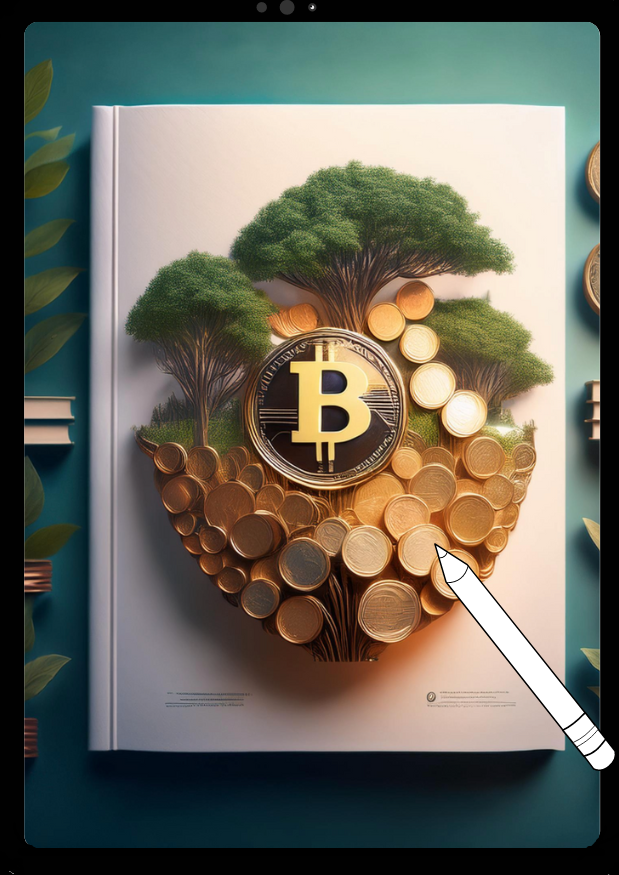
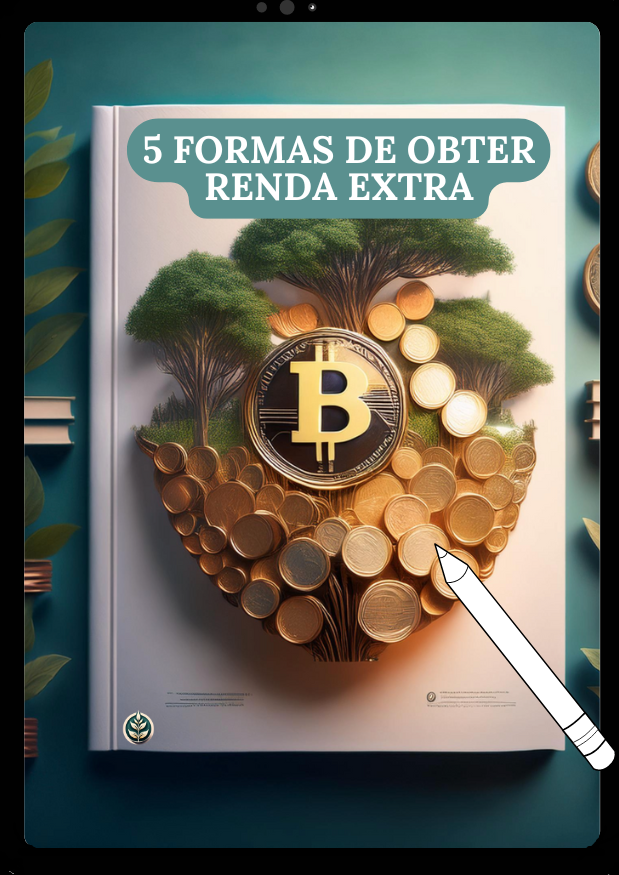
finalizado cabeçalhos, footer e sobre mim

Changed region(s): [[0.1842, 0.1234, 0.8901, 0.2777], [0.1842, 0.8023, 0.2456, 0.864]]

diff --git a/src/components/containers/header/style.js b/src/components/containers/header/style.js
@@ -19,8 +19,6 @@ export const HeaderContainer = styled.div`
     justify-content: space-around;
     padding: 40px;
     align-items: flex-start;
-
-
   }
 
   @media (min-width: 1080px) {
@@ -34,18 +32,31 @@ export const HeaderContainer = styled.div`
 
 export const TextContainer = styled.div`
   text-align: center;
-
-  @media (min-width: 760px) {
-    text-align: left;
-    max-width: 300px;
+  animation: fadeIn 2s alternate, slideIn 1s ease-out;
+  
+  @media (max-width: 760px) {
+    margin-bottom: 1rem;
   }
 `;
 
 export const FreeEbookText = styled.h2`
   font-size: 1.5rem;
-  margin-bottom: 15px;
+  margin-bottom: 10px;
   color: #fff;
   text-align: center;
+  text-shadow: 2px 2px 4px rgba(0, 0, 0, 0.4);
+
+  /* Background geométrico */
+  background: linear-gradient(135deg, ${theme.colors.highlight} 100%, transparent 100%) -10px 10px; 
+              
+  background-size: 10px 10px;
+
+  border-bottom-left-radius: 1rem;
+  border-bottom-right-radius: 0.3rem;
+  border-top-right-radius: 1rem;
+  border-top-left-radius: 0.3rem;
+  
+  background-position: top right, bottom left;
   
 
   @media (min-width: 760px) {
@@ -56,6 +67,7 @@ export const FreeEbookText = styled.h2`
 export const DescriptionText = styled.p`
   font-size: 1rem;
   text-align: center;
+  text-shadow: 1px 1px 3px rgba(0, 0, 0, 0.2);
   
   @media (max-width: 760px) {
     font-size: 1.2rem;
@@ -68,6 +80,8 @@ export const DescriptionText = styled.p`
 `;
 
 export const ImageContainer = styled.div`
+
+  animation: fadeIn 2s alternate, slideIn 1s ease-out;
 
   @media (min-width: 760px) {
     margin: 0 20px;
@@ -89,12 +103,19 @@ export const CoverImage = styled.img`
 
 export const ButtonContainer = styled.div`
   margin-top: 20px;
+
   align-items: end;
-  border: 1px solid black;
+  /* border: 1px solid red; */
 
   @media (min-width: 760px) {
-    margin-top: 0;
+    margin-top: 10rem;
   }
+
+  @media (min-width: 1024px) {
+    margin-top: 12.8rem;
+  }
+
+
 `;
 
 export const DownloadButton = styled.button`

diff --git a/src/components/containers/footer/FooterSection.js b/src/components/containers/footer/FooterSection.js
@@ -1,4 +1,4 @@
-import { FacebookOutlined, InstagramOutlined, YoutubeOutlined } from '@ant-design/icons';
+import { InstagramOutlined, YoutubeOutlined, TikTokOutlined } from '@ant-design/icons';
 import { FooterContainer, SocialLinks } from "./style"
 
 
@@ -7,17 +7,17 @@ export const FooterSection = () => {
     <FooterContainer>
       <p>© 2024 Sua Melhor Versão. Todos os direitos reservados.</p>
       <SocialLinks>
-        <a href="https://www.instagram.com" target="_blank" rel="noopener noreferrer">
+        <a href="https://www.instagram.com/smvhoje" target="_blank" rel="noopener noreferrer">
           <InstagramOutlined />
         </a>
-        <a href="https://www.youtube.com" target="_blank" rel="noopener noreferrer">
+        <a href="https://www.youtube.com/@smvhoje" target="_blank" rel="noopener noreferrer">
           <YoutubeOutlined />
         </a>
-        <a href="https://www.facebook.com" target="_blank" rel="noopener noreferrer">
-          <FacebookOutlined />
+        <a href="https://www.tiktok.com/@smvhoje" target="_blank" rel="noopener noreferrer">
+          <TikTokOutlined />
         </a>
       </SocialLinks>
-      <p>Desenvolvido por [Seu Nome]</p>
+      <p>Desenvolvido por Samuel Pacheco</p>
     </FooterContainer>
   );
 };

diff --git a/src/components/containers/header/Header.js b/src/components/containers/header/Header.js
@@ -12,18 +12,30 @@ import {
   DownloadButton } from "./style";
 
 export const Header = () => {
+
+  const scrollToForm = () => {
+    const formElement = document.getElementById("simpleForm");
+    if (formElement) {
+      formElement.scrollIntoView({ behavior: "smooth" });
+      formElement.classList.add("highlight");
+      setTimeout(() => {
+        formElement.classList.remove("highlight");
+      }, 2000); // Duração do destaque
+    }
+  };
+
   return (
     <HeaderContainer>
       <TextContainer>
         <FreeEbookText>eBook Gratuito</FreeEbookText>
-        <DescriptionText>Descubra 5 estratégias eficientes para garantir renda extra. </DescriptionText>
+        <DescriptionText>Descubra 5 estratégias eficientes com o propósito de te iniciar na jornada da renda extra. </DescriptionText>
+        <ButtonContainer>
+          <DownloadButton onClick={scrollToForm} >Baixe Grátis Agora</DownloadButton>
+        </ButtonContainer>
       </TextContainer>
       <ImageContainer>
         <CoverImage src={TelaBtc} alt="Capa do eBook" />
       </ImageContainer>
-      <ButtonContainer>
-        <DownloadButton>Baixe Grátis Agora</DownloadButton>
-      </ButtonContainer>
     </HeaderContainer>
   );
 };

diff --git a/src/components/containers/form/SimpleForm.js b/src/components/containers/form/SimpleForm.js
@@ -1,4 +1,4 @@
-import React, { useState } from "react";
+import React, { useState, useEffect } from "react";
 import { db } from "../../../firebaseConfig.js";
 import { collection, addDoc } from "firebase/firestore";
 import {
@@ -69,8 +69,19 @@ export const SimpleForm = () => {
     }
   };
 
+    // Função para adicionar classe de destaque
+    useEffect(() => {
+      const formElement = document.getElementById("simpleForm");
+      if (formElement) {
+        formElement.classList.add("highlight");
+        setTimeout(() => {
+          formElement.classList.remove("highlight");
+        }, 2000); // Duração do destaque
+      }
+    }, []);
+
   return (
-    <ContactContainer>
+    <ContactContainer id="simpleForm">
       <TextContainer>
         <Slide direction="left" triggerOnce>
           <h2>Acesse agora</h2>
@@ -78,7 +89,7 @@ export const SimpleForm = () => {
         </Slide>
       </TextContainer>
       <Slide direction="right" triggerOnce>
-        <FormGroup autoComplete="off" onSubmit={handleSubmit}>
+        <FormGroup autoComplete="off" onSubmit={handleSubmit} >
           <Col span={24}>
             <Input
               type="text"

diff --git a/src/components/containers/form/styles.js b/src/components/containers/form/styles.js
@@ -1,4 +1,5 @@
 import styled from "styled-components";
+import { theme } from "../../../styles/theme";
 
 export const ContactContainer = styled.div`
   padding: 1rem;
@@ -8,6 +9,25 @@ export const ContactContainer = styled.div`
 
   display: flex;
   flex-direction: column;
+
+  &.highlight {
+    animation: highlight 2s ease-in-out;
+  }
+
+  @keyframes highlight {
+    0% {
+      transform: scale(1);
+      box-shadow: 0 0 10px ${theme.colors.highlight};
+    }
+    50% {
+      transform: scale(1.05);
+      box-shadow: 0 0 20px ${theme.colors.highlight};
+    }
+    100% {
+      transform: scale(1);
+      box-shadow: 0 0 10px ${theme.colors.highlight};
+    }
+  }
   
 
   @media (max-width: 768px) {

diff --git a/src/components/containers/headerLogo/HeaderLogo.js b/src/components/containers/headerLogo/HeaderLogo.js
@@ -1,7 +1,4 @@
 import logo from '../../../assets/logo192.png'; 
-import image from '../../../assets/Bitcoin.png'; 
-import CapaBtc from '../../../assets/CapaBitcoin.png'; 
-
 import { HeaderContainer, Title} from "./style"
 
 
